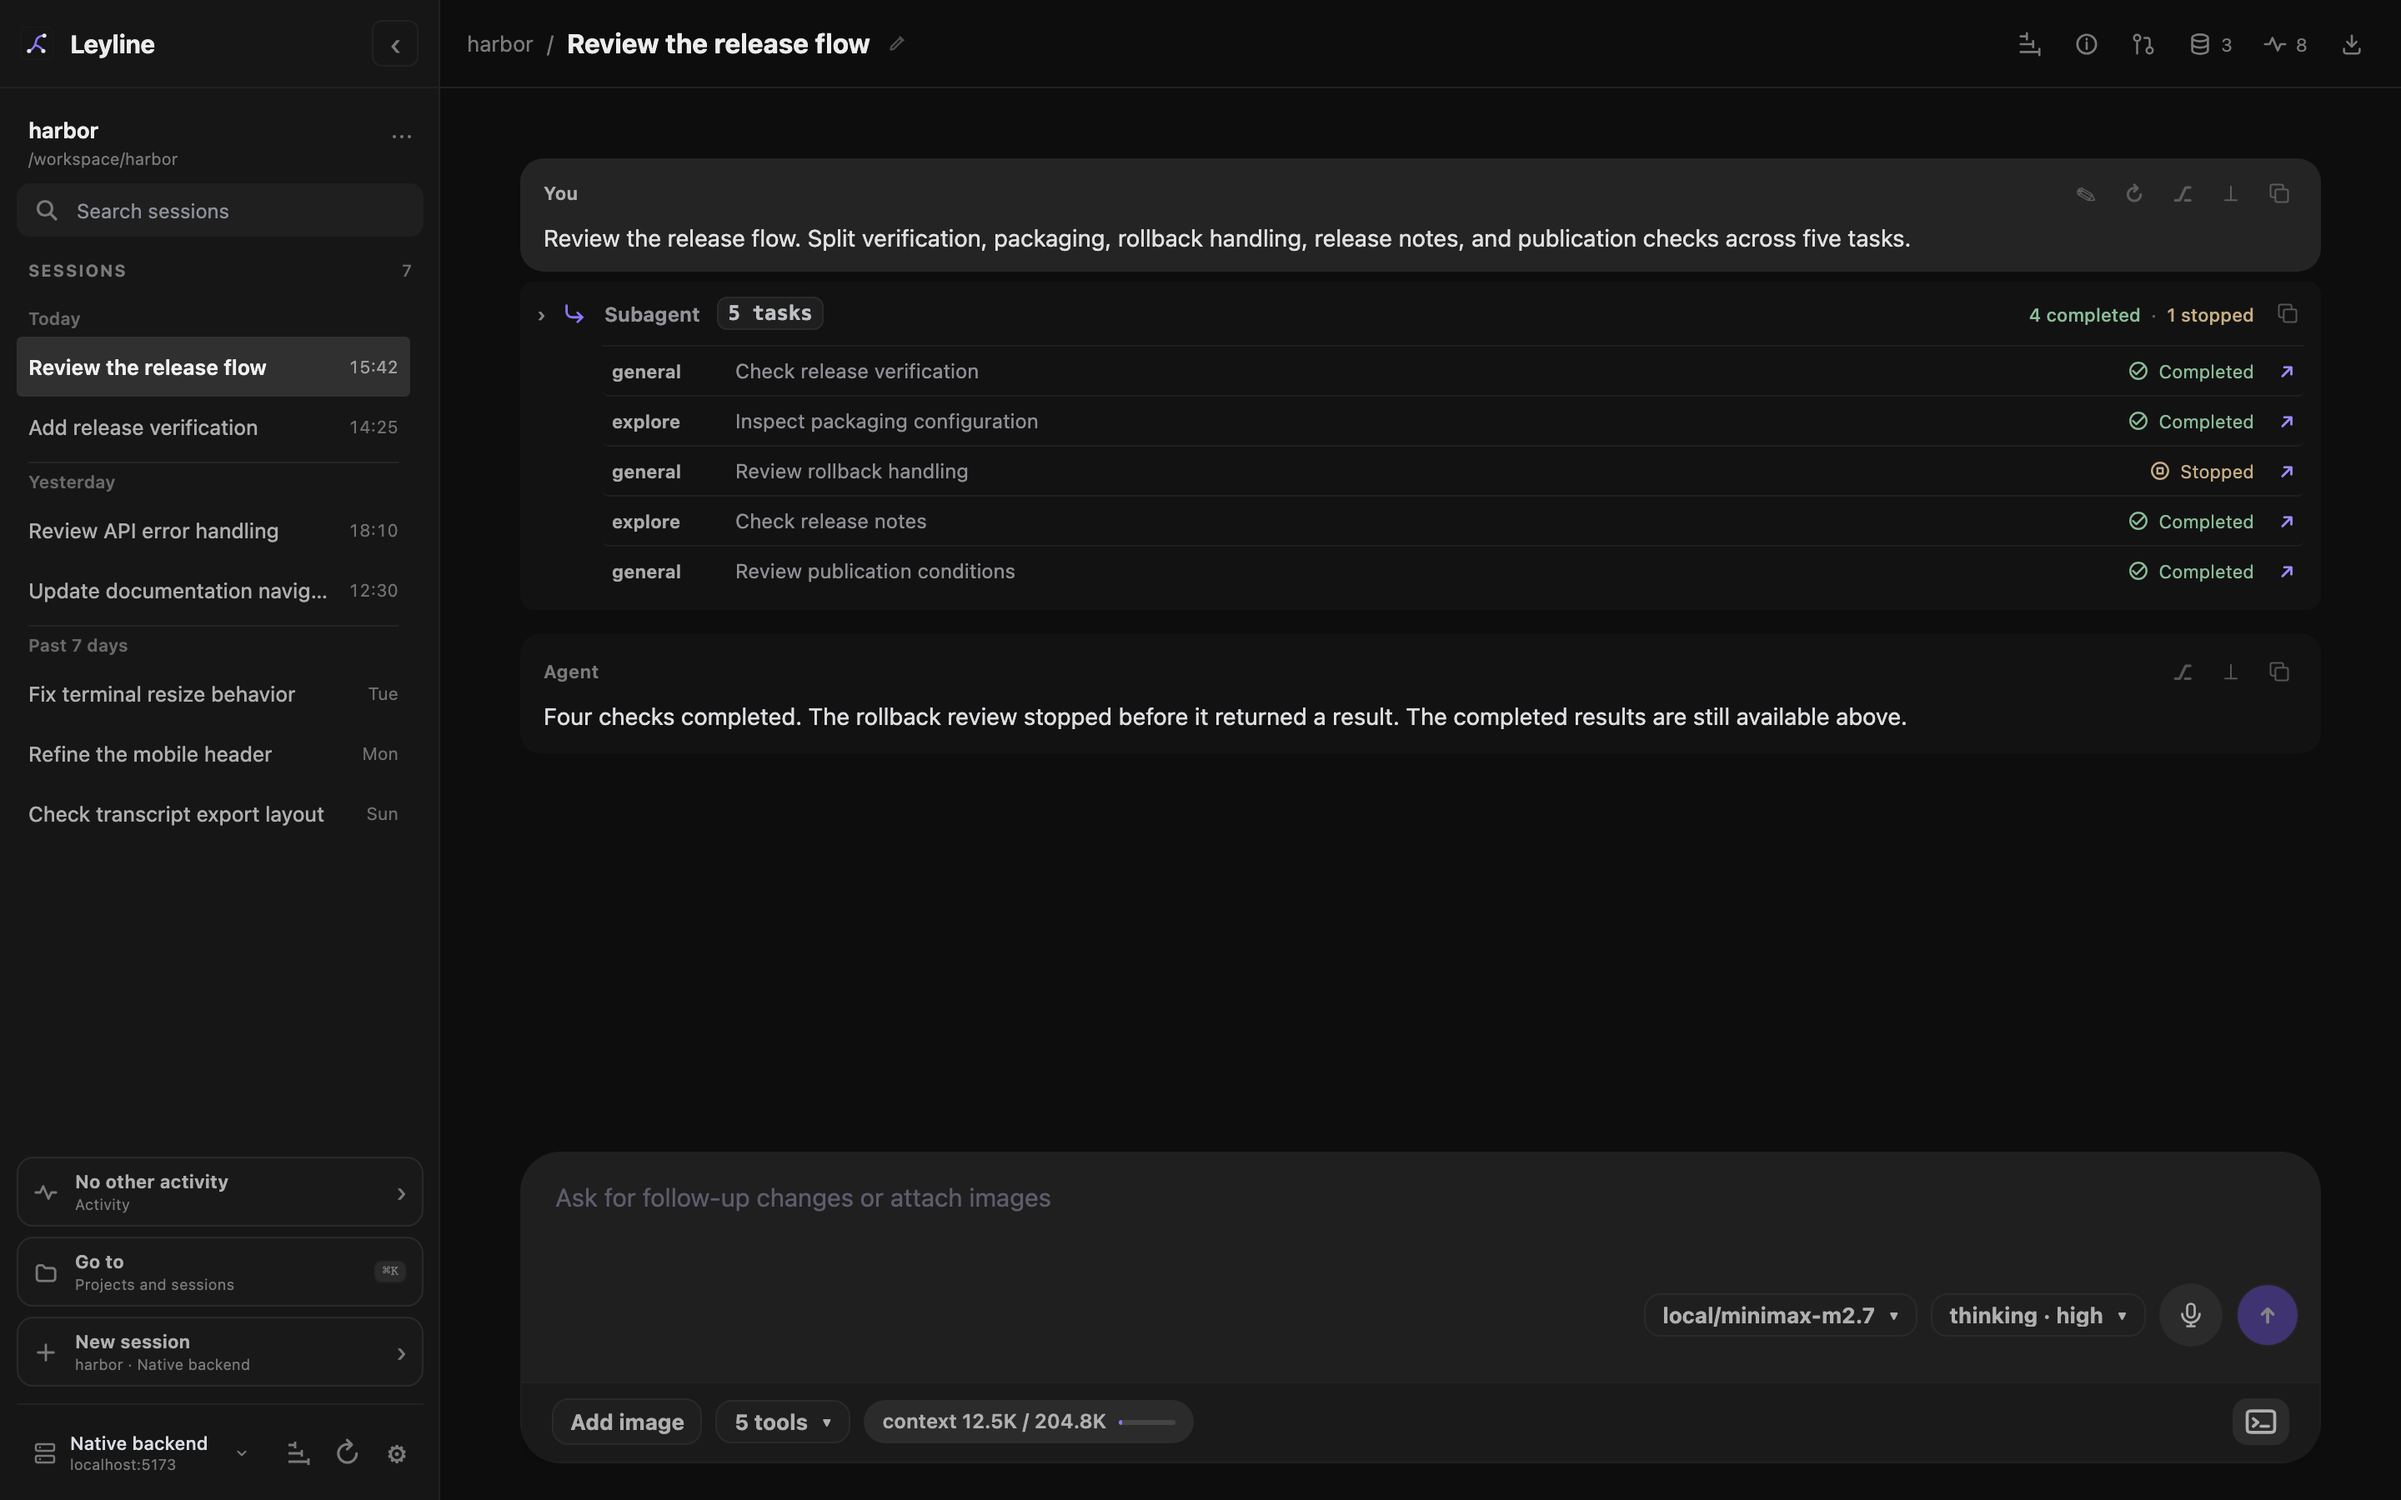
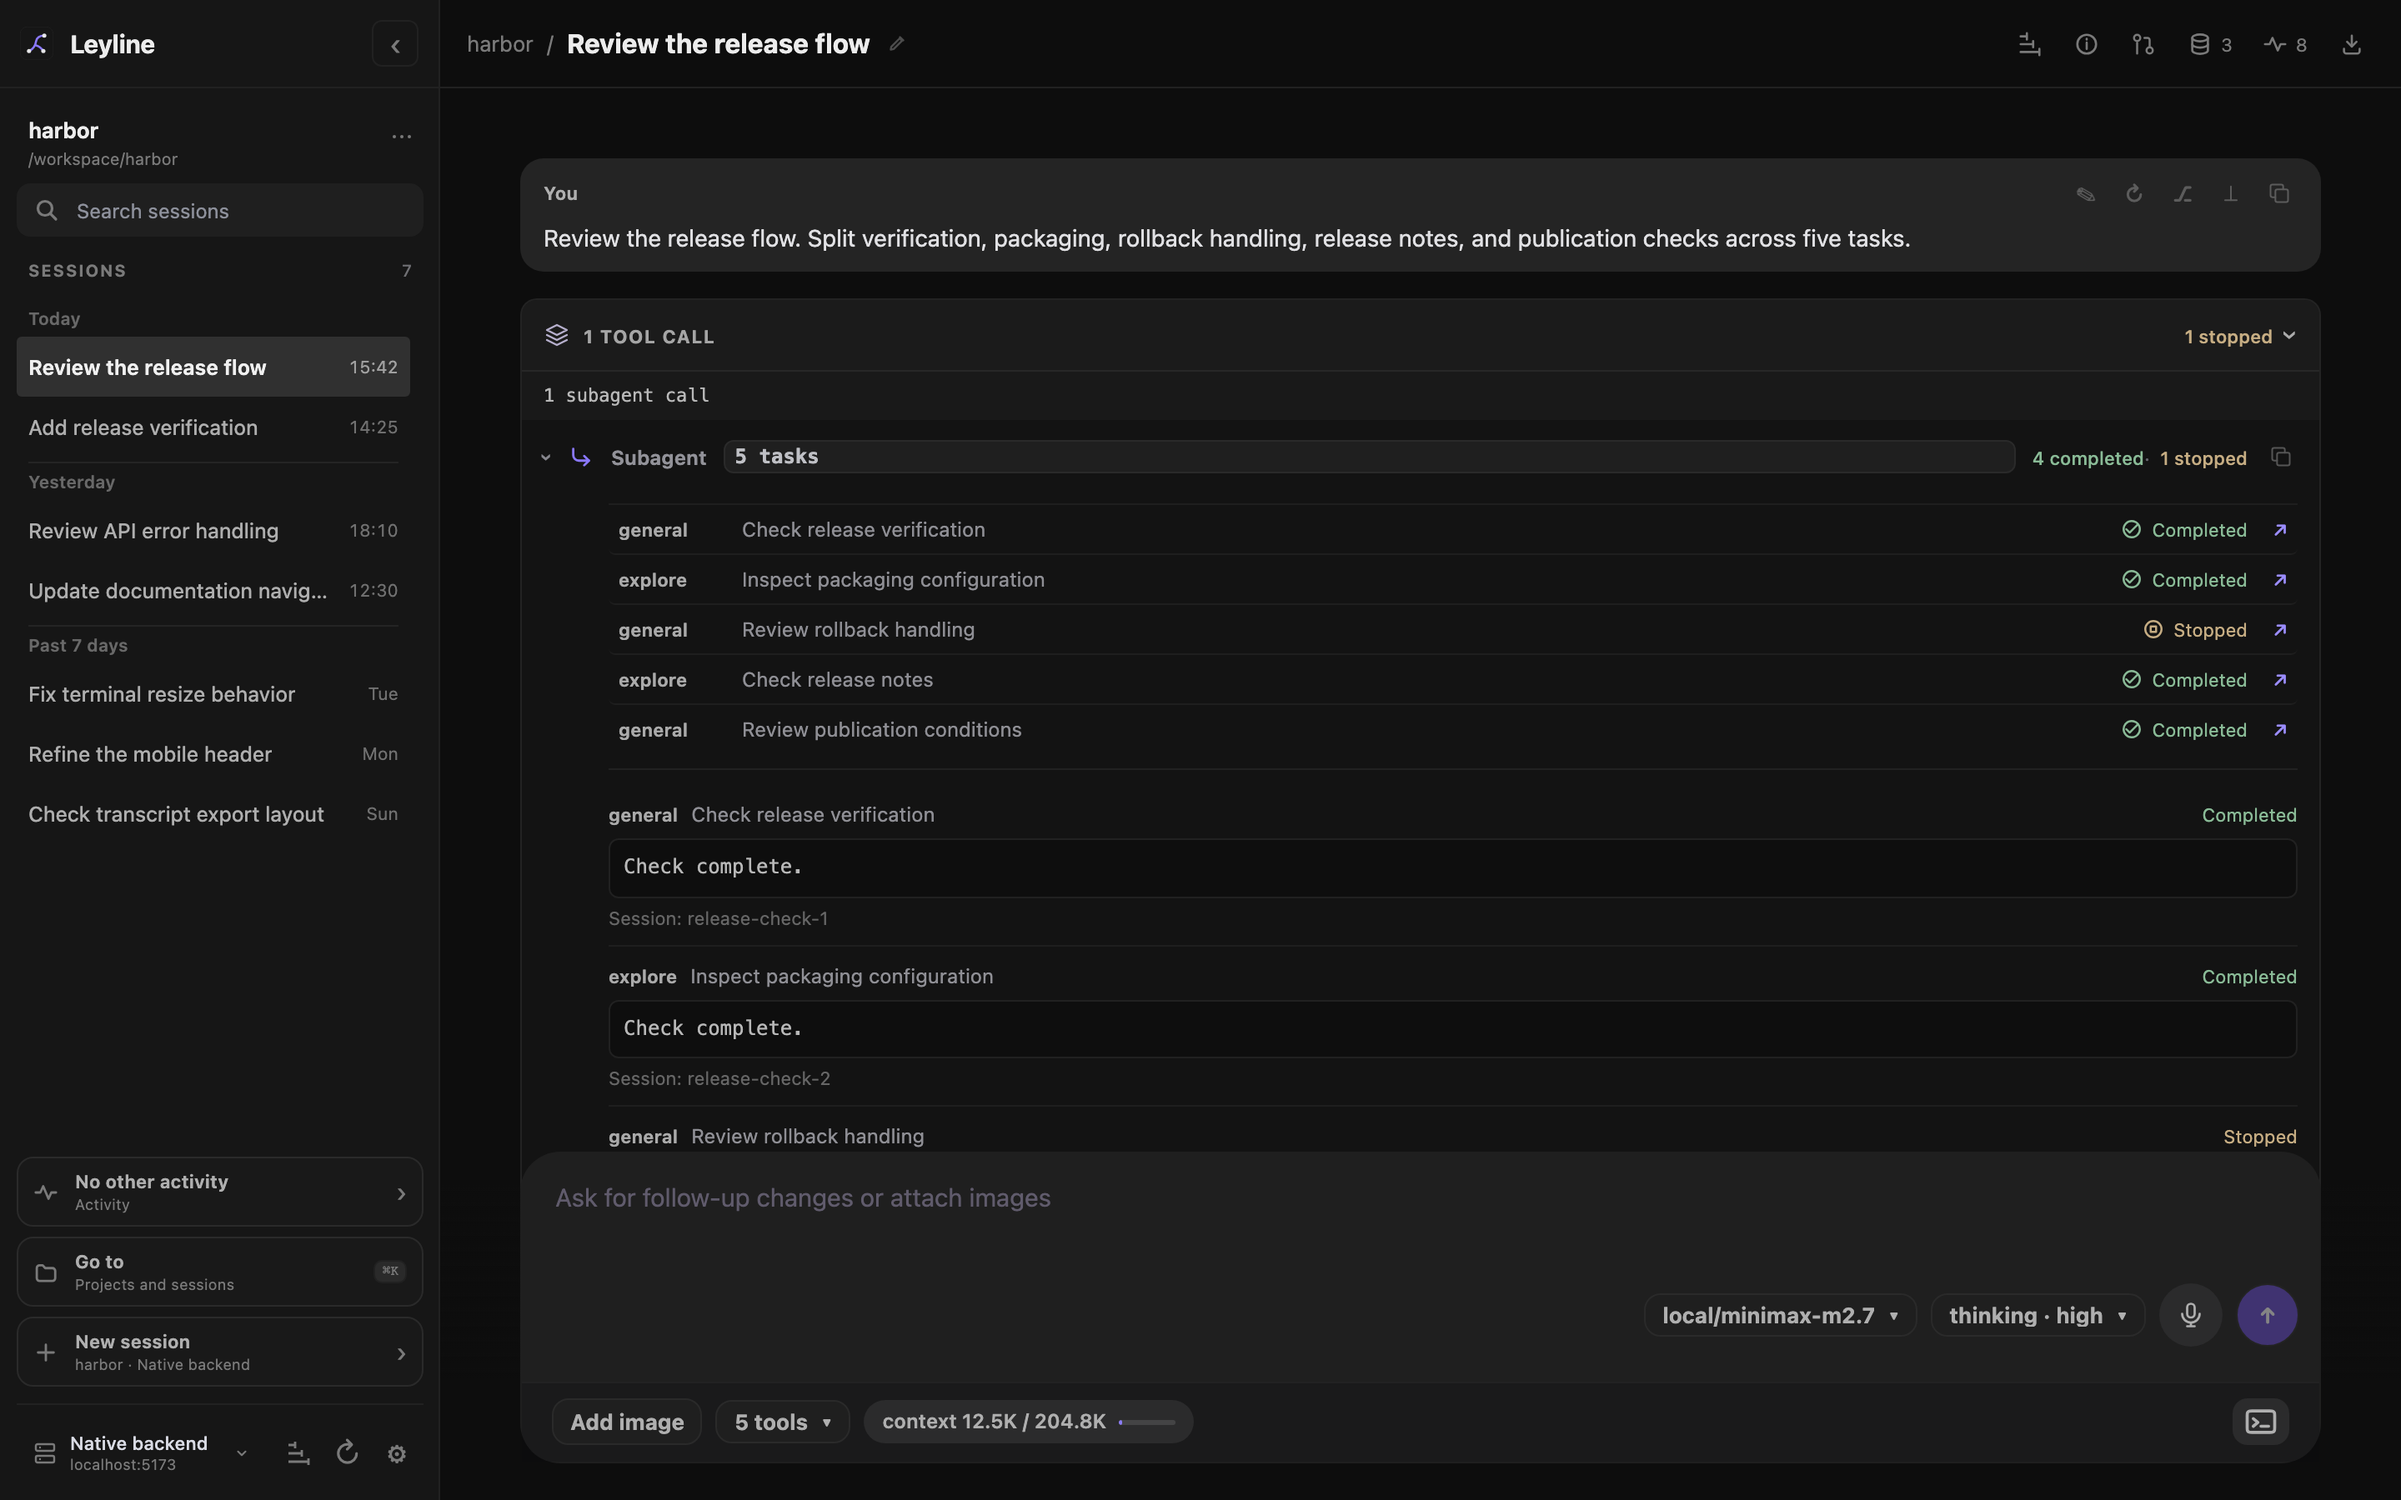
docs: refresh tool card screenshots
The tool card changed, so four captures no longer matched.

- expand the Activity card before capturing subagent outcomes
- include the card in the vision tool capture

diff --git a/scripts/docs-screenshots.js b/scripts/docs-screenshots.js
@@ -1476,12 +1476,21 @@ try {
     ready: '.subagent-summary',
     scenario: 'subagent-outcomes',
     interact: async (page) => {
-      const card = page.locator('.subagent-card')
+      const activity = page.locator('.mobile-activity-card')
+      const card = activity.locator('.subagent-card')
+      await activity.locator('.mobile-activity-summary').click()
+      await card.locator('.tool-expand-button').click()
       await card.locator('.subagent-summary').filter({ hasText: '4 completed' }).waitFor()
-      await card.locator('.subagent-task-status.status-stopped').waitFor()
+      await card.locator('.subagent-result-item').nth(4).waitFor({ state: 'visible' })
+      await card.locator('.subagent-task-status.status-stopped').first().waitFor()
       if (await card.locator('.subagent-result-item').count() !== 5) {
         throw new Error('Subagent outcome capture must show all five tasks')
       }
+      await activity.scrollIntoViewIfNeeded()
+      await page.mouse.wheel(0, -10000)
+      await page.waitForFunction(() => {
+        return document.querySelector('.workbench')?.scrollTop === 0
+      })
     },
   })
   await capture({
@@ -1491,11 +1500,14 @@ try {
     ready: '.transcript-tool',
     scenario: 'vision',
     interact: async (page) => {
-      const tool = page.locator('.transcript-tool').filter({ hasText: 'Tool · vision_agent' })
-      await tool.click()
+      const activity = page.locator('.mobile-activity-card')
+      const tool = activity.locator('.transcript-tool')
+        .filter({ hasText: 'Tool · vision_agent' })
+      await activity.locator('.mobile-activity-summary').click()
+      await tool.locator('.tool-expand-button').click()
       await tool.locator('.tool-output').waitFor()
     },
-    clipSelectors: ['.transcript-message.user-message', '.transcript-tool'],
+    clipSelectors: ['.transcript-message.user-message', '.mobile-activity-card'],
     padding: 18,
   })
   await capture({
